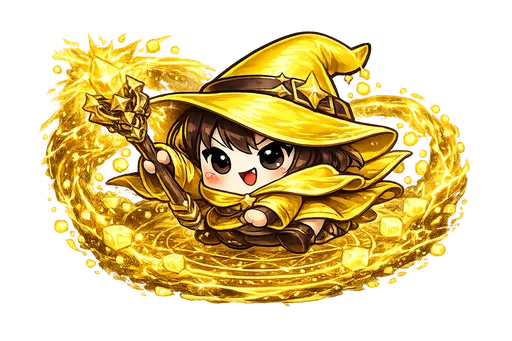
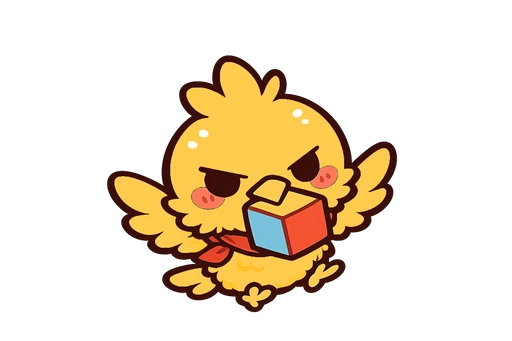
game: 賊鴨系(原魔女)+風城入門/初級/中級、火城中級畜力調整、排行榜/各城副標
- 魔女→賊鴨:c51-c55 改名+3星進化線(◯賊鴨/大賊鴨/盜賊鴨)+全套貼圖(1-4星)+主動技群鴨亂啄
- 賊鴨破壞技 _peckAct:偷盤面格(非魔王);魔王偷盤面+拖盤3格;中級4星魔王加透明塊詠唱整消
- 風城入門/初級/中級關卡(賊鴨),入門教學魔王
- 火城中級雜兵+魔王畜力改 CD4式、入門教學魔王、S3三星魔王
- 排行榜展開成各城×難度可捲動、各城難度選擇畫面主題副標

diff --git a/public/play/index.html b/public/play/index.html
@@ -112,7 +112,7 @@
       { emoji: '🕷', name: '妖·蜘蛛', color: '#b79bff', cards: { fire: 'c36', water: 'c37', thunder: 'c38', earth: 'c39', wind: 'c40' } },   // 雜牌卡(未標家族,保留 genin 1星,進化2星換岩甲圖)
       { emoji: '👺', name: '哥布林', color: '#ff6a4a', cards: { fire: 'c41', water: 'c42', thunder: 'c43', earth: 'c44', wind: 'c45' } },   // 雜牌卡(未標家族,保留 genin 1星;1→2星換青年哥布林圖,2→3星換戰士哥布林圖,見 GHOST_EVO/GHOST_EVO2)
       { emoji: '🧱', name: '妖·牆', color: '#c9a86a', cards: { fire: 'c46', water: 'c47', thunder: 'c48', earth: 'c49', wind: 'c50' } },   // 雜牌卡(未標家族,保留 genin 1星,進化2星換城牆怪圖);土城盾兵/盾王借此圖
-      { emoji: '🔮', name: '妖·魔女', color: '#b06ad0', cards: { fire: 'c51', water: 'c52', thunder: 'c53', earth: 'c54', wind: 'c55' } },   // 雜牌卡(未標家族,保留 genin 1星,進化2星換大魔女圖);風城消卡片塊敵人/魔王借此圖
+      { emoji: '🦆', name: '賊鴨', color: '#b06ad0', cards: { fire: 'c51', water: 'c52', thunder: 'c53', earth: 'c54', wind: 'c55' } },   // 雜牌卡(未標家族,保留 genin 1星;1→2星換大賊鴨圖,2→3星換盜賊鴨圖,見 WITCH_EVO/WITCH_EVO2,原名魔女);風城消卡片塊敵人/魔王借此圖(魔王另借 king_full)
       { emoji: '💊', name: '妖·藥師', color: '#4fbf8f', cards: { fire: 'c56', water: 'c57', thunder: 'c58', earth: 'c59', wind: 'c60' } },   // 雜牌卡(未標家族,保留 genin 1星,進化2星換大藥師圖,完全鏡射魔女);補血系高rcv中攻;水城補師怪/魔王借此圖
       { emoji: '💎', name: '寶玉', color: '#8fd0e0', cards: { fire: 'c61', water: 'c62', thunder: 'c63', earth: 'c64', wind: 'c65' } },   // 進化素材(chunin 2★晶精);屬性城掉落、進化消耗;不進 EVO_CARDS
     ];
@@ -130,7 +130,7 @@
     ['🕷', '妖', '#b79bff', 0x241a2e, ['c36', 'c37', 'c38', 'c39', 'c40']],
     ['👺', '妖', '#ff6a4a', 0x2e1a1a, ['c41', 'c42', 'c43', 'c44', 'c45']],
     ['🧱', '妖', '#c9a86a', 0x2a2418, ['c46', 'c47', 'c48', 'c49', 'c50']],
-    ['🔮', '妖', '#b06ad0', 0x241a2e, ['c51', 'c52', 'c53', 'c54', 'c55']],
+    ['🦆', '妖', '#b06ad0', 0x241a2e, ['c51', 'c52', 'c53', 'c54', 'c55']],
     ['💊', '妖', '#4fbf8f', 0x18332a, ['c56', 'c57', 'c58', 'c59', 'c60']],
     ['💎', '寶玉', '#8fd0e0', 0x16313a, ['c61', 'c62', 'c63', 'c64', 'c65']]
     ].forEach(([e, n, c, bg, ids]) => ids.forEach(id => CARD_SPECIES[id] = { e, n, c, bg }));
@@ -370,6 +370,14 @@
       earth: { name: '土之遺跡', icon: '🛡', skill: '護盾', art: 'shield_earth', threat: '敵人帶「護盾」,普通攻擊打不動牠!', counter: '一手清夠多格(HIT)或連夠多段(COMBO)→ 打破護盾' },
       wind: { name: '風之峽谷', icon: '💨', skill: '消屬塊', art: 'caster_wind', threat: '術士會消掉你卡上存的屬塊;魔王還用「黑洞」把整塊吸走!', counter: '屬塊別囤著、趕快用掉;魔王預告時用「火」(剋風)清宮打斷' },
     };
+    // 難度選擇畫面的各城主題提示(一句話點出該城機制;序章/塔無→用通用字)
+    const DUNGEON_TIP = {
+      fire: '火山裡充滿強力攻擊的怪，別忘了注意自己的血量',
+      water: '會補技、復活的怪都在這，小心變成持久戰',
+      thunder: '充滿影響盤面的技能怪，要用高技巧排盤面',
+      earth: '各種防禦怪，用高 COMBO 和高 HIT 打倒牠',
+      wind: '各種盜賊聚集的峽谷，小心別被偷',
+    };
     // 🗺 大廳世界地圖排版(以 map_demo 為範本;座標=原圖 1080×1920 空間;渲染時乘自適應 S → 換手機高度不跑位)
     const MAP_ISLES = [   // id=進入的城;ax/ay=原圖中心;w/h=原圖尺寸
       { key: 'island_wind', id: 'wind', ax: 234, ay: 484, w: 464, h: 485 },
@@ -480,12 +488,12 @@
       { id: 'c48', name: '雷牆怪', el: 'thunder', race: 'yokai', rank: 'genin', atk: 95, hp: 140, rcv: 12, attrs: ['thunder'] },
       { id: 'c49', name: '土牆怪', el: 'earth', race: 'yokai', rank: 'genin', atk: 70, hp: 185, rcv: 12, attrs: ['earth'] },
       { id: 'c50', name: '風牆怪', el: 'wind', race: 'yokai', rank: 'genin', atk: 85, hp: 150, rcv: 14, attrs: ['wind'] },
-      /* ── 🔮 魔女系(雜牌卡,鏡像蜘蛛/鬼/牆系:不進 CARD_FAMILY/TW_IDS→保留 genin ★1;魔法攻擊系高攻中血;1★→2★進化換名換圖「大◯魔女」,見 WITCH_EVO;風城消卡片塊敵人/魔王借圖)── */
-      { id: 'c51', name: '火魔女', el: 'fire', race: 'yokai', rank: 'genin', atk: 135, hp: 85, rcv: 10, attrs: ['fire'] },
-      { id: 'c52', name: '水魔女', el: 'water', race: 'yokai', rank: 'genin', atk: 90, hp: 130, rcv: 22, attrs: ['water'] },
-      { id: 'c53', name: '雷魔女', el: 'thunder', race: 'yokai', rank: 'genin', atk: 125, hp: 95, rcv: 14, attrs: ['thunder'] },
-      { id: 'c54', name: '土魔女', el: 'earth', race: 'yokai', rank: 'genin', atk: 95, hp: 145, rcv: 14, attrs: ['earth'] },
-      { id: 'c55', name: '風魔女', el: 'wind', race: 'yokai', rank: 'genin', atk: 115, hp: 105, rcv: 16, attrs: ['wind'] },
+      /* ── 🦆 賊鴨系(雜牌卡,鏡像蜘蛛/鬼/牆系:不進 CARD_FAMILY/TW_IDS→保留 genin ★1;魔法攻擊系高攻中血;1★→2★→3★三階進化,見 WITCH_EVO/WITCH_EVO2;風城消卡片塊敵人/魔王借圖;內部 id/物種 key 沿用魔女時期,原名"魔女",2026-07-30 改名賊鴨)── */
+      { id: 'c51', name: '火賊鴨', el: 'fire', race: 'yokai', rank: 'genin', atk: 135, hp: 85, rcv: 10, attrs: ['fire'] },
+      { id: 'c52', name: '水賊鴨', el: 'water', race: 'yokai', rank: 'genin', atk: 90, hp: 130, rcv: 22, attrs: ['water'] },
+      { id: 'c53', name: '雷賊鴨', el: 'thunder', race: 'yokai', rank: 'genin', atk: 125, hp: 95, rcv: 14, attrs: ['thunder'] },
+      { id: 'c54', name: '土賊鴨', el: 'earth', race: 'yokai', rank: 'genin', atk: 95, hp: 145, rcv: 14, attrs: ['earth'] },
+      { id: 'c55', name: '風賊鴨', el: 'wind', race: 'yokai', rank: 'genin', atk: 115, hp: 105, rcv: 16, attrs: ['wind'] },
       /* ── 💊 藥師系(雜牌卡,完全鏡射魔女系:不進 CARD_FAMILY/TW_IDS→保留 genin ★1;補血系高rcv,atk比魔女略降,水/土屬更肉更高rcv;1★→2★進化換名換圖「大◯藥師」,見 YAKUSHI_EVO;水城補師怪/魔王借圖)── */
       { id: 'c56', name: '火藥師', el: 'fire', race: 'yokai', rank: 'genin', atk: 110, hp: 90, rcv: 20, attrs: ['fire'] },
       { id: 'c57', name: '水藥師', el: 'water', race: 'yokai', rank: 'genin', atk: 65, hp: 150, rcv: 34, attrs: ['water'] },
@@ -507,13 +515,14 @@
     // 鬼系(現已改名哥布林系)1★→2★進化換名換圖表:進化階(getCardEvo)≥1 → 顯示「◯青年哥布林」+ <id>_e_ 圖
     const GHOST_EVO = { c41: '火青年哥布林', c42: '水青年哥布林', c43: '雷青年哥布林', c44: '土青年哥布林', c45: '風青年哥布林' };
     const WALL_EVO = { c46: '火城牆怪', c47: '水城牆怪', c48: '雷城牆怪', c49: '土城牆怪', c50: '風城牆怪' };   // 牆怪 1★→2★進化換名換圖(鏡像蜘蛛/鬼系):進化階≥1 → 顯示「◯城牆怪」+ <id>_e_ 圖;土城盾王借城牆怪 e_full
-    const WITCH_EVO = { c51: '大火魔女', c52: '大水魔女', c53: '大雷魔女', c54: '大土魔女', c55: '大風魔女' };   // 魔女 1★→2★進化換名換圖(鏡像牆怪):進化階≥1 → 顯示「大◯魔女」+ <id>_e_ 圖;風城魔王借大魔女 e_full
+    const WITCH_EVO = { c51: '火大賊鴨', c52: '水大賊鴨', c53: '雷大賊鴨', c54: '土大賊鴨', c55: '風大賊鴨' };   // 賊鴨(原魔女)1★→2★進化換名換圖:進化階≥1 → 顯示「◯大賊鴨」+ <id>_e_ 圖;風城魔王借圖見 WITCH_EVO2/king_full
     const YAKUSHI_EVO = { c56: '大火藥師', c57: '大水藥師', c58: '大雷藥師', c59: '大土藥師', c60: '大風藥師' };   // 藥師 1★→2★進化換名換圖(鏡射魔女):進化階≥1 → 顯示「大◯藥師」+ <id>_e_ 圖;水城魔王借大水藥師 e_full
     const EVO_CARDS = Object.assign({}, SPIDER_EVO, GHOST_EVO, WALL_EVO, WITCH_EVO, YAKUSHI_EVO);   // 合併進化雜牌卡名表:凡是「進化換名換圖」共用邏輯(cardArtKey/_loadCardArt/_loadCardThumbs/_ensureFullArt/canEvolve/GACHA_ROSTER/cardName/進化預覽)一律讀這裡,不分蜘蛛/鬼/牆/魔女/藥師
     // 哥布林系(原鬼系)2★→3★再進化名表:進化階(getCardEvo)≥2 → 顯示「◯戰士哥布林」+ <id>_e2_ 圖(3星,2026-07-29 加)。
-    // 目前只有哥布林系支援 evo2;其他雜牌系(蜘蛛/牆/魔女/藥師)仍維持 1★→2★ 兩形上限。別系要開 evo2 就往 EVO2_CARDS 加。
+    // 目前哥布林系、賊鴨系(原魔女 c51~c55)支援 evo2;其他雜牌系(蜘蛛/牆/藥師)仍維持 1★→2★ 兩形上限。別系要開 evo2 就往 EVO2_CARDS 加。
     const GHOST_EVO2 = { c41: '火戰士哥布林', c42: '水戰士哥布林', c43: '雷戰士哥布林', c44: '土戰士哥布林', c45: '風戰士哥布林' };
-    const EVO2_CARDS = Object.assign({}, GHOST_EVO2);   // 合併「可進到 evo2(3星)」名表:目前只有哥布林系,別的系要開 evo2 往這加
+    const WITCH_EVO2 = { c51: '火盜賊鴨', c52: '水盜賊鴨', c53: '雷盜賊鴨', c54: '土盜賊鴨', c55: '風盜賊鴨' };   // 賊鴨(原魔女)2★→3★再進化名表:進化階≥2 → 顯示「◯盜賊鴨」+ <id>_e2_ 圖(3星,2026-07-30 加);魔王另借 king_full(4星「◯盜賊鴨王」非卡片)
+    const EVO2_CARDS = Object.assign({}, GHOST_EVO2, WITCH_EVO2);   // 合併「可進到 evo2(3星)」名表:目前哥布林系、賊鴨系支援,別的系要開 evo2 往這加
     function cardName(id) { const c = ROSTER.find(x => x.id === id) || {}; const t = getCardEvo(id); if (t >= 2 && EVO2_CARDS[id]) return EVO2_CARDS[id]; return (EVO_CARDS[id] && t >= 1) ? EVO_CARDS[id] : c.name; }   // 卡片顯示名字統一入口(evo2 名表優先於 evo1 名表,再 fallback ROSTER.name)
     // CONFIG → battle-core.js
     const KATA = ['一之型', '二之型', '三之型', '四之型', '五之型', '禁術', '奧義'];   // LV1~7(簡單數字,日文漢字通用)
@@ -785,7 +794,7 @@
     const SPIDER_ACTIVE = { name: '蛛絲纏縛', cd: 4, icon: '🕸', desc: '鎖定 1 敵,其出手倒數 +1 手' };   // 🕷蜘蛛系(c36~c40)共用同一份主動技物件
     const GHOST_ACTIVE = { name: '怨擊', cd: 5, icon: '👊', desc: '對指定 1 敵造成 攻擊力×2 傷害(吃相剋)' };
     const WALL_ACTIVE = { name: '築牆阻擋', cd: 6, icon: '🧱', desc: '全體敵人出手倒數 +1 手' };   // 👹鬼系(c41~c45)共用同一份主動技物件
-    const WITCH_ACTIVE = { name: '魔女術式', cd: 6, icon: '🔮', desc: '對全體敵人造成 攻擊力×1.6 傷害(吃相剋)' };   // 🔮魔女系(c51~c55):全體魔法傷害(區隔🐶群擊×2、👹怨擊單體×2)
+    const WITCH_ACTIVE = { name: '群鴨亂啄', cd: 6, icon: '🦆', desc: '對全體敵人造成 攻擊力×1.6 傷害(吃相剋)' };   // 🦆賊鴨系(c51~c55,原魔女):全體傷害(區隔🐶群擊×2、👹怨擊單體×2)
     const YAKUSHI_ACTIVE = { name: '靈藥術式', cd: 6, icon: '💊', desc: '回復全隊 HP 35%' };   // 💊藥師系(c56~c60,鏡射魔女術式但改補血):CD6 比照水屬預設「回春之泉」CD4回30%,CD拉高故回復率略增
     const CARD_ACTIVE = {
       c15: { name: '裂空撲殺', cd: 3, icon: '🐆', desc: '總傷≈攻×2:敵單隻→集中、多隻→均分全體,各吃相剋' },
@@ -2225,7 +2234,7 @@
         if (this.dungeonId === 'thunder') _loadCardArt(this, ['c38']);   // 🕷 雷之高原借蜘蛛透明大圖當敵圖:載 c38雷蜘蛛(法師)+岩甲雷蜘蛛(魔王,_e)完整大圖
         if (this.dungeonId === 'fire') { _loadCardArt(this, ['c41']); if (!this.textures.exists('card_c41_king_full')) this.load.image('card_c41_king_full', 'art/cards/c41_king_full.webp'); }   // 👺 火之火山借哥布林卡透明大圖當敵圖:載 c41哥布林(雜兵)完整大圖;魔王另載專屬 4星哥布林酋長大圖(非玩家卡,只在此當魔王)
         if (this.dungeonId === 'earth') _loadCardArt(this, ['c49']);   // 🧱 土之山岳借牆怪透明大圖當盾兵/盾王圖:載 c49土牆怪(盾兵)+土城牆怪(盾王,_e)完整大圖(比照 fire 分支)
-        if (this.dungeonId === 'wind') _loadCardArt(this, ['c55']);   // 🔮 風之峽谷借魔女透明大圖當消卡片塊敵/魔王圖:載 c55風魔女(小兵)+大風魔女(魔王,_e)完整大圖
+        if (this.dungeonId === 'wind') { _loadCardArt(this, ['c55']); if (!this.textures.exists('card_c55_king_full')) this.load.image('card_c55_king_full', 'art/cards/c55_king_full.webp'); }   // 🦆 風之峽谷借賊鴨(原魔女)透明大圖當消卡片塊敵/魔王圖:載 c55風賊鴨(小兵)完整大圖;魔王另載專屬 4星風賊鴨王大圖(非玩家卡,只在此當魔王,比照 fire 分支)
         if (this.dungeonId === 'water') _loadCardArt(this, ['c57']);   // 💊 水之深淵借藥師透明大圖當補血怪/魔王圖:載 c57水藥師(補師)+大水藥師(魔王,_e)完整大圖(比照 wind 分支)
         ['fire', 'water', 'thunder', 'earth', 'wind'].forEach(el => { if (!this.textures.exists('el_' + el)) this.load.svg('el_' + el, 'art/elements/element_' + el + '.svg', { width: 96, height: 96 }); });   // 元素符號:實心剪影 SVG,疊在盤面方塊正中央(setTintFill 上白),96px 光柵→顯示縮到 ~23px 保脆
         showLoadBar(this);
@@ -2263,7 +2272,10 @@
           if (e.boss && this.textures.exists('card_c49_e_full')) return 'card_c49_e_full';
           if (e.shield && this.textures.exists('card_c49_full')) return 'card_c49_full';
         }
-        if (this.dungeonId === 'wind') {   // 🔮 風之峽谷=魔女:魔王→大風魔女(e_full)、消卡片塊敵→風魔女(借 c55);只換 eatStored 敵人,其餘維持 grunt
+        if (this.dungeonId === 'wind') {   // 🦆 風之峽谷=賊鴨窟(原魔女):tier 星級圖優先(1星→c55、2星→_e、3星→_e2);無 tier 的魔王才用 4星賊鴨王
+          const gk = e.tier === 3 ? 'card_c55_e2_full' : e.tier === 2 ? 'card_c55_e_full' : e.tier === 1 ? 'card_c55_full' : null;
+          if (gk && this.textures.exists(gk)) return gk;
+          if (e.boss && this.textures.exists('card_c55_king_full')) return 'card_c55_king_full';
           if (e.boss && this.textures.exists('card_c55_e_full')) return 'card_c55_e_full';
           if (e.eatStored > 0 && this.textures.exists('card_c55_full')) return 'card_c55_full';
         }
@@ -4643,6 +4655,59 @@
           if (bi >= 0) { this._eatBlockGrunt(e, bi); } else { this.enemyAttack(e); } e.timer = e.interval;   // 術士雜兵:有塊→啃1LV、沒塊→攻擊
         }
       }
+      _peckAct(e) {   // 🦆賊鴨出手(擴充):偷盤面格(+e.peckTray→連拖盤拼圖格也偷)+e.stealStored(中級4星魔王)→輪流推進魔女魔王消屬塊詠唱(_buildEatCast/_fireEatBlock);都偷不到才攻擊翻倍
+        const pool = [];   // 破壞池:{t:'b',r,c}=盤面格 / {t:'y',pi,rc}=拖盤第pi塊的格(rc=該塊內偏移)
+        for (let r = 0; r < N; r++) for (let c = 0; c < N; c++) if (this.board[r][c]) pool.push({ t: 'b', r, c });
+        if (e.peckTray) (this.tray || []).forEach((p, pi) => { if (p.used || !p.c || !p.c.length) return; p.c.forEach(rc => pool.push({ t: 'y', pi, rc })); });   // 非 peckTray 的賊鴨只偷盤面格,維持原行為
+        const ex = e.sprite ? e.sprite.x : CX, ey = (e.sprite ? e.sprite.y : 60), wcol = EL.wind.color, doStored = !!e.stealStored;
+        const hasTarget = pool.length > 0 || (doStored && ((this._eatCast && this._eatCast.boss === e) || this._topStoredIdx() >= 0));
+        if (!hasTarget) { this.floatText(ex, ey - 34, '🦆 沒東西可偷·攻擊翻倍!', '#ffd24a'); this.enemyAttack(e, { dmg: e.atk * 2, big: true }); e.timer = e.interval; return; }
+        const n = Math.min(e.peck || 1, pool.length);
+        if (n > 0) {
+          this._eneCast && this._eneCast(e); this.chargeAt(ex, ey, wcol, 340); this.labSnd && this.labSnd('s_clear15', 0.5);
+          this.floatText(ex, ey - 34, '🦆 偷走 ' + n + ' 塊', '#c9a0ff');
+          const targets = [];
+          for (let i = 0; i < n; i++) { const idx = Math.floor(Math.random() * pool.length); targets.push(pool.splice(idx, 1)[0]); }
+          let boardN = 0, trayTouched = false;
+          targets.forEach((tg, i) => {
+            if (tg.t === 'b') {
+              boardN++;
+              const r = tg.r, c = tg.c, cen = this.cellCenter(r, c), cel = this.board[r][c], ccol = (cel && EL[cel.el]) ? EL[cel.el].color : wcol;
+              this.board[r][c] = null;   // 模型先移除;舊 sprite 留著給投射物打碎,命中才淡出,最後 refreshBoard 收尾
+              const sp = this.blockSprites && this.blockSprites[r * N + c];
+              this.time.delayedCall(360 + i * 130, () => {
+                const ctrl = { x: (ex + cen.x) / 2, y: Math.min(ey, cen.y) - 70 };
+                this.flyBall(ex, ey, cen.x, cen.y, wcol, ctrl, 380, () => {   // 賊鴨→該格射一發(風色)
+                  this._shatterBurst(cen.x, cen.y, ccol, true); this.labSnd && this.labSnd('s_boom', 0.5); this.labSnd && this.labSnd('s_block', 0.45);   // 命中→碎裂(同偷屬塊)
+                  if (sp && sp.active) this.tweens.add({ targets: sp, alpha: 0, scaleX: sp.scaleX * 0.4, scaleY: sp.scaleY * 0.4, duration: 220, ease: 'Back.in' });
+                  this.floatText(cen.x, cen.y - 4, '🪶', '#ffffff');
+                });
+              });
+            } else {   // 拖盤格:從拼圖裡挖掉那一格(值比對 filter,避免同塊多格用 splice 位移出錯)
+              trayTouched = true;
+              const pi = tg.pi, rc = tg.rc, trayP = this.tray[pi], tx = (this.traySlots && this.traySlots[pi] != null) ? this.traySlots[pi] : ex, ty = TRAY_Y;
+              if (trayP) { trayP.c = trayP.c.filter(x => !(x[0] === rc[0] && x[1] === rc[1])); if (trayP.c.length === 0) trayP.used = true; }
+              this.time.delayedCall(360 + i * 130, () => {
+                const ctrl = { x: (ex + tx) / 2, y: Math.min(ey, ty) - 70 };
+                this.flyBall(ex, ey, tx, ty, wcol, ctrl, 380, () => {   // 賊鴨→拖盤那塊射一發(風色),命中處炸開一團風色 puff(拼圖看得出缺一角,靠隨後 renderTray 收尾)
+                  const ADD = Phaser.BlendModes.ADD, puff = this.add.circle(tx, ty, 20, wcol, 0.7).setBlendMode(ADD).setDepth(DEPTH.fx);
+                  this.tweens.add({ targets: puff, scale: 2.2, alpha: 0, duration: 300, onComplete: () => puff.destroy() });
+                  this.labSnd && this.labSnd('s_boom', 0.5); this.labSnd && this.labSnd('s_block', 0.45);
+                  this.floatText(tx, ty - 24, '🪶', '#ffffff');
+                });
+              });
+            }
+          });
+          const doneDelay = 360 + (n - 1) * 130 + 380 + 280;
+          if (boardN > 0) this.time.delayedCall(doneDelay, () => { if (!this.resultOpen) this.refreshBoard(); });   // 全部命中後收尾重繪(清掉被偷的盤面格)
+          if (trayTouched) this.time.delayedCall(doneDelay, () => { if (!this.resultOpen) this.renderTray(); });   // 收尾重畫拖盤(缺角拼圖生效)
+        }
+        if (doStored) {   // 🌀中級4星魔王:輪流推進魔女魔王消屬塊狀態機(這手若已有本魔王的預告→結算整消;否則→這手預告鎖定一塊)
+          if (this._eatCast && this._eatCast.boss === e) { this._fireEatBlock(); }
+          else if (this._topStoredIdx() >= 0) { this._buildEatCast(e); }
+        }
+        this.enemyAttack(e); e.timer = e.interval;
+      }
       _eatBlockGrunt(e, bi) {   // 術士雜兵:身前開消屬黑洞(慢)→從黑洞射一發到卡上那塊→卡上碎裂(久一點)→該塊 −1 LV(LV1→整塊消)
         const s = this.stored[bi]; if (!s) { this.enemyAttack(e); return; } const el = s.el, col = EL[el].color, ADD = Phaser.BlendModes.ADD, ex = e.sprite ? e.sprite.x : CX, ey = (e.sprite ? e.sprite.y : 60) + (e.cardH || 70) * 0.04, so = this.teamCards[bi] && this.teamCards[bi].storeObj, tx = so ? so.x : CX, ty = so ? so.y : CARDS_Y;
         this._eneCast(e); this.labSnd && this.labSnd('s_clear15', 0.4);
@@ -4953,7 +5018,7 @@
           if (this.resultOpen) { this.locked = false; return; }   // 期間已開結算/勝敗畫面→不再推進
           try {
             this._shieldHandActive = false; this._shieldBreakShown = false; this._lockedStore = {}; this._clearAllLockBadges();   // 🐻本手護盾旗標重置(首擋→轉true→全手擋);🌀封卡旗標每敵回合開始清+清殘留🔒徽章(魔王設→套用到玩家下一手)
-            this.enemies.forEach(e => { if (e.dead || e.hp <= 0) return; if ((e.sealed || 0) > 0) { e.sealed--; return; } if (e._finInterrupted) { e._finInterrupted = false; return; } if (e.finCD > 0) { e.timer--; const FS = e.finStages || 2; if (e.timer <= 0) { e._charging = false; this._launchFinisher(e); } else if (e.timer <= FS) { e._charging = true; this._showEnemyOrb(e, e.timer === 1 ? 3 : 2); } else { e._charging = false; } this.animTurnGlass(e); return; } if (e._charging) { this.enemyFinisher(e); this.animTurnGlass(e); return; } e.timer--; if (e.timer <= 0) { if (e.finisher > 0) this.enemyFinisher(e); else if (e.healAlly > 0) { this._medicAct(e); } else if (e.eatStored > 0) { this._eatAct(e); } else if (e.shield) { this._shieldAct(e); } else if (e.paralyze > 0) { this._paralyzeAct(e); } else { this.enemyAttack(e); e.timer = e.interval; } } this.animTurnGlass(e); });   // ⚡麻痺:e.timer 歸0→_paralyzeAct(頭上CD與發動一致);魔王有鎖改攻擊   // 敵出手;補師=雙模式/魔王補師=攻擊+補+復活(_medicAct);★被打斷終結技的敵→跳過;蓄力中每手推進一階;封印=凍結
+            this.enemies.forEach(e => { if (e.dead || e.hp <= 0) return; if ((e.sealed || 0) > 0) { e.sealed--; return; } if (e._finInterrupted) { e._finInterrupted = false; return; } if (e.finCD > 0) { e.timer--; const FS = e.finStages || 2; if (e.timer <= 0) { e._charging = false; this._launchFinisher(e); } else if (e.timer <= FS) { e._charging = true; this._showEnemyOrb(e, e.timer === 1 ? 3 : Math.min(2, FS - e.timer + 1)); } else { e._charging = false; } this.animTurnGlass(e); return; } if (e._charging) { this.enemyFinisher(e); this.animTurnGlass(e); return; } e.timer--; if (e.timer <= 0) { if (e.finisher > 0) this.enemyFinisher(e); else if (e.healAlly > 0) { this._medicAct(e); } else if (e.eatStored > 0) { this._eatAct(e); } else if (e.shield) { this._shieldAct(e); } else if (e.paralyze > 0) { this._paralyzeAct(e); } else if (e.peck > 0) { this._peckAct(e); } else { this.enemyAttack(e); e.timer = e.interval; } } this.animTurnGlass(e); });   // ⚡麻痺:e.timer 歸0→_paralyzeAct(頭上CD與發動一致);魔王有鎖改攻擊   // 敵出手;補師=雙模式/魔王補師=攻擊+補+復活(_medicAct);★被打斷終結技的敵→跳過;蓄力中每手推進一階;封印=凍結
             const dotRate = Math.max(0, ...this.enemies.filter(e => !e.dead && e.hp > 0 && !(e.sealed > 0)).map(e => e.dot || 0));   // 🔥火關灼燒光環:有灼燒敵活著→每手扣玩家血(取最大率、不疊加);★封印中不灼燒
             if (dotRate > 0) { const dd = Math.max(1, Math.round(this.maxHP * dotRate)); this.playerHP = Math.max(0, this.playerHP - dd); this.floatText(CX, PHP_Y - 16, '🔥灼燒 -' + dd, '#ff7a4a'); this.animPlayerHP(false); if (this.playerHP <= 0) this.gameOver('灼燒焚身'); }
             this.enemies.forEach(e => { if (!e.dead && e.hp > 0 && !(e.sealed > 0) && e.regen > 0) { const hh = Math.max(1, Math.round(e.max * e.regen)); e.hp = Math.min(e.max, e.hp + hh); if (e.sprite) this.floatText(e.sprite.x, e.sprite.y - 24, '💚+' + hh, '#74e09a'); } });   // 💚水關自我回血:每隻回血敵每手回自身血(致死 hp≤0 不回→不會復活);★封印中不自療
@@ -5576,9 +5641,9 @@
         const ADD = Phaser.BlendModes.ADD, base = (e.cardW || 60) * (e.boss ? 0.32 : 0.2);   // 雜兵較小
         const conf = stage >= 3 ? { r: base * 1.5, col: 0xff2a1a, glow: 0xff2a1a, pulse: 210 }
           : stage === 2 ? { r: base * 1.15, col: 0xffb24a, glow: 0xff8a2a, pulse: 360 }
-            : { r: base * 0.85, col: 0xbfe0ff, glow: 0x5aa0ff, pulse: 520 };
+            : { r: base * 0.8, col: 0xffffff, glow: 0xd6e8ff, pulse: 520 };   // 第一階=小白球
         const oyOff = (e.cardH || 70) * 0.2, ox = e.sprite.x, oy = e.sprite.y + oyOff;   // 在怪「身前偏下」(雙手前),不擋臉
-        const coreCol = stage >= 3 ? 0xffe6cf : (stage === 1 ? conf.glow : conf.col);   // 第一階用深藍(不白、不糊成一團)
+        const coreCol = stage >= 3 ? 0xffe6cf : (stage === 1 ? 0xffffff : conf.col);   // 第一階=白核小白球(倒數第一段的小小白光)
         const solid = stage >= 3, cont = this.add.container(ox, oy, []).setDepth(DEPTH.fx), glow = this.add.circle(0, 0, conf.r * 1.6, conf.glow, solid ? 0.34 : 0.24).setBlendMode(ADD), core = this.add.circle(0, 0, conf.r, coreCol, solid ? 0.92 : 0.6).setBlendMode(ADD);   // 第3階=實心白熱(脈動/抖動才看得出),1/2階半透明露臉
         cont.add([glow, core]); e._finOrb = cont; e._finCol = conf.col; e._finR = conf.r; e._finPos = { x: ox, y: oy }; e._finOY = oyOff;
         cont.setScale(0.4); this.tweens.add({ targets: cont, scaleX: 1, scaleY: 1, duration: 220, ease: 'Back.out' });
@@ -6683,7 +6748,7 @@
         this.input.on('pointerup', () => { this._oDragFrom = null; this._noScroll = false; });
         this.input.on('wheel', (p, go, dx, dy) => { if (this.tab !== 'other' || !this._otherScroll) return; const viewH = (H - 60) - 84, minY = Math.min(0, viewH - (this._otherContentH || 0)); this._otherScrollY = Phaser.Math.Clamp(this._otherScrollY - dy * 0.5, minY, 0); this._otherScroll.y = this._otherScrollY; });   // 🖱 桌面滾輪支援(手機用拖曳);同 create() 只加一次,不在 rebuild 疊
         // 🏅 成就頁捲動(村落→成就分頁);與 'other' 同套邏輯,獨立狀態 _achScroll/_achScrollY/_achContentH;只註冊一次
-        const _isAch = () => this.tab === 'friend' && this.rankTab === 'ach' && this._achScroll;   // 排行/紀錄/成就頁=friend(殿堂)tab
+        const _isAch = () => this.tab === 'friend' && ((this.rankTab || 'board') === 'board' || this.rankTab === 'ach') && this._achScroll;   // 排行/成就頁共用這套捲動;⚠排行是預設分頁→rankTab 常為 undefined,要用 (rankTab||'board') 判,否則排行拖不動
         const _achView = () => (H - 60) - (84 + 60);
         this.input.on('pointerdown', p => { if (!_isAch()) return; this._aDragFrom = p.y; });
         this.input.on('pointermove', p => { if (!_isAch() || this._aDragFrom == null || !p.isDown) return; const dy = p.y - this._aDragFrom; this._aDragFrom = p.y; const minY = Math.min(0, _achView() - (this._achContentH || 0)); this._achScrollY = Phaser.Math.Clamp((this._achScrollY || 0) + dy, minY, 0); this._achScroll.y = this._achScrollY; });
@@ -6880,30 +6945,47 @@
         });
         if (tab === 'rec') this.bRankRecords(); else if (tab === 'ach') this.bRankAch(); else this.bRankBoard();
       }
-      bRankBoard() {   // 排行=各關「全服最速通關記錄」+ 記錄保持者名字(伺服器 dungeon_best_clears);首次進入非同步抓一次快取
+      bRankBoard() {   // 排行=各城「每個難度」全服最速通關 + 記錄保持者(伺服器 dungeon_best_clears);城標頭下列出各難度;放進可捲動容器(城×難度列數多)
         const T = UI(), cTop = 84;
         const fmt = (s) => { if (s == null) return '--:--'; const x = Math.max(0, Math.floor(s)); return String(Math.floor(x / 60)).padStart(2, '0') + ':' + String(x % 60).padStart(2, '0'); };
+        this._achScroll = null;   // 先清:載入中的 early-return 路徑不要讓捲動閘門誤抓到上一輪的殘留容器
         if (this._lbCache === undefined) {   // 尚未抓過→標記 pending、非同步抓,回來後 rebuild 重繪
           this._lbCache = null;
           leaderboardFetch().then(recs => { this._lbCache = recs || []; if (this.tab === 'friend' && (this.rankTab || 'board') === 'board' && this.scene.isActive()) this.rebuild(); });
         }
-        const PAD = 16, ROWH = 48, GAP = 10;
         if (this._lbCache === null) { this.txt(CX, cTop + 130, '載入全服榜…', FS.sub, T.ink3, 0.5); return; }   // 載入中
-        const best = {};   // dungeonId → 該城最速(跨難度取最快){sec,name,diff}
-        this._lbCache.forEach(r => { const c = best[r.dungeonId]; if (!c || r.clearSec < c.sec) best[r.dungeonId] = { sec: r.clearSec, name: r.holderName, diff: r.diff }; });
-        let y = cTop + 92;
-        RANK_DUNGEONS.forEach(id => {
+        // 依 城→難度 收整(同城同難度取最快;dungeon_best_clears 本就每城每難一列,取 min 保險)
+        const byDun = {};
+        this._lbCache.forEach(r => { (byDun[r.dungeonId] = byDun[r.dungeonId] || {}); const c = byDun[r.dungeonId][r.diff]; if (!c || r.clearSec < c.sec) byDun[r.dungeonId][r.diff] = { sec: r.clearSec, name: r.holderName }; });
+        const DIFF_ORDER = ['baby', 'beginner', 'normal', 'advanced', 'super', 'hell'];   // 入門→地獄
+        const viewTop = cTop + 60, viewBot = H - 60, PAD = 16, ROWH = 44, GAP = 10, HEADGAP = 26, GRP = 48;   // GRP=城與城間留白(要明顯>HEADGAP,標頭才貼近它下方的組、遠離上一組)
+        const sc = this._achScroll = this.add.container(0, this._achScrollY || 0); this.L(sc);
+        const mkT = (x, y, s, size, col, ox, bold) => { const t = this.add.text(x, y, s, { fontFamily: EMOJIFONT, fontSize: Math.max(15, parseInt(size || '16', 10) || 16) + 'px', color: col || T.ink, fontStyle: bold ? 'bold' : 'normal' }).setOrigin(ox == null ? 0.5 : ox, 0.5); sc.add(t); return t; };
+        let y = viewTop + 26;   // 第一個城標頭
+        RANK_DUNGEONS.forEach((id, di) => {
           const dg = DUNGEONS[id]; if (!dg) return;
-          const b = best[id], has = !!b;
-          this.L(roundRectG(this, CX, y, W - PAD * 2, ROWH, 12, has ? T.surf : T.surf2, 1, has ? T.gold : T.divider, has ? 2 : 1.5));   // 有記錄=金框白卡,無=淡灰
-          this.txt(PAD + 12, y, dg.emoji + '  ' + dg.name, FS.body, has ? T.ink : T.ink3, 0, has);
-          if (has) {
-            const dq = DIFFS_BY[b.diff];
-            this.txt(W - PAD - 12, y - 9, '🏁 ' + fmt(b.sec) + (dq ? '  ' + dq.emoji : ''), FS.sub, T.goldTx, 1, true);   // 時間 + 難度圖示
-            this.txt(W - PAD - 12, y + 11, '👑 ' + (b.name || '無名英雄'), FS.micro, T.ink2, 1);   // 記錄保持者名字(null→fallback)
-          } else this.txt(W - PAD - 12, y, '尚無記錄', FS.sub, T.ink3, 1);
-          y += ROWH + GAP;
+          const recs = byDun[id] || {};
+          const diffs = DIFF_ORDER.filter(dk => recs[dk] && DIFFS_BY[dk]);
+          if (di > 0) y += GRP;   // 城與城之間留白(第一城不加)
+          mkT(PAD + 6, y, dg.emoji + '  ' + dg.name, FS.body, T.ink, 0, true);   // 城標頭
+          y += HEADGAP + ROWH / 2;   // 標頭下方留白 + 到第一列中心
+          if (diffs.length === 0) {   // 該城全難度都尚無記錄
+            sc.add(roundRectG(this, CX, y, W - PAD * 2, ROWH, 10, T.surf2, 1, T.divider, 1.5));
+            mkT(CX, y, '尚無記錄', FS.sub, T.ink3, 0.5);
+            y += ROWH / 2;
+          } else diffs.forEach((dk, ri) => {
+            const dq = DIFFS_BY[dk], b = recs[dk];
+            if (ri > 0) y += ROWH + GAP;   // 進到下一列中心
+            sc.add(roundRectG(this, CX, y, W - PAD * 2, ROWH, 10, T.surf, 1, T.gold, 1.5));
+            mkT(PAD + 16, y, (dq.emoji || '') + ' ' + dq.name, FS.sub, T.ink, 0, true);   // 難度圖示+名
+            mkT(W - PAD - 12, y - 8, '🏁 ' + fmt(b.sec), FS.sub, T.goldTx, 1, true);   // 最速時間
+            mkT(W - PAD - 12, y + 10, '👑 ' + (b.name || '無名英雄'), FS.micro, T.ink2, 1);   // 記錄保持者
+            if (ri === diffs.length - 1) y += ROWH / 2;   // 最後一列:補到列底
+          });
         });
+        this._achContentH = (y - viewTop) + 12;   // 內容總高(給捲動下限算)
+        const mask = this.make.graphics({ x: 0, y: 0, add: false }); mask.fillStyle(0xffffff).fillRect(0, viewTop, W, viewBot - viewTop);
+        sc.setMask(mask.createGeometryMask()); this._achMask = mask;
       }
       bRankRecords() {
         const T = UI(), cTop = 84;
@@ -7025,7 +7107,7 @@
         const bg = this.add.rectangle(CX, H / 2, W, H, 0x0e0a16, 0).setInteractive().on('pointerup', () => { if (ready) close(); });
         g.add(bg); this.tweens.add({ targets: bg, fillAlpha: { from: 0, to: 0.72 }, duration: 170 });   // 半暗底(亮色列在上更跳)
         const title = this.add.text(CX, H * 0.075, d.emoji + ' ' + d.name, { fontFamily: EMOJIFONT, fontSize: FS.title, color: '#ffffff', fontStyle: 'bold' }).setOrigin(0.5).setStroke('#000000', 4);
-        const sub = this.add.text(CX, H * 0.075 + 30, '選擇難度 — 體力越高、關數與獎勵越多', { fontFamily: EMOJIFONT, fontSize: FS.cap, color: '#e2ddd4' }).setOrigin(0.5).setStroke('#000000', 3);
+        const sub = this.add.text(CX, H * 0.075 + 30, DUNGEON_TIP[d.id] || '選擇難度 — 體力越高、關數與獎勵越多', { fontFamily: EMOJIFONT, fontSize: FS.cap, color: '#e2ddd4' }).setOrigin(0.5).setStroke('#000000', 3);
         g.add(title); g.add(sub);
         const backH = 50, backY = H - 38;
         const list = (id === 'tower') ? DIFFS.filter(df => df.key !== 'baby') : DIFFS;   // 塔=最終關,難度同五屬關但不開嬰兒級

diff --git a/public/play/data-stages.js b/public/play/data-stages.js
@@ -91,17 +91,55 @@ const OVERRIDES = {
     ] },
     ...DUNGEONS.tower.stages.slice(1),
   ],
-  // 火之火山·初級=哥布林畜力技教學關(把中級的「終結蓄力」機制下放到初級,讓玩家先學打斷)。tier=哥布林星級貼圖(1/2/3星),beh:'finisher'+finStages:2+finPct 直接指定(繞過初級 noSkill),finAnyHit:任何屬性打到牠都能中止(初級寬鬆)。四屬酋長只放火城,魔王(酋長)留給中級↑
+  // 火之火山·初級=哥布林畜力技教學關(把中級的「終結蓄力」機制下放到初級,讓玩家先學打斷)。tier=哥布林星級貼圖(1/2/3星),beh:'finisher'+finStages:3(CD4→倒數CD3/2/1顯示蓄力)+finPct 直接指定(繞過初級 noSkill),finAnyHit:任何屬性打到牠都能中止(初級寬鬆)。四屬酋長只放火城,魔王(酋長)留給中級↑
   'fire:beginner': [
     // S1:2星青年哥布林 ×1,CD式畜力(總CD4→倒數2顯示蓄力1階、1顯示2階、0放招)→教玩家「看CD倒數抓攻擊時機並打斷」
-    { es: [ { el: 'fire', hp: 560, atk: 90, turns: 2, tier: 2, beh: 'finisher', finCD: 4, finStages: 2, finPct: 0.15, finAnyHit: true } ] },
+    { es: [ { el: 'fire', hp: 560, atk: 90, turns: 2, tier: 2, beh: 'finisher', finCD: 4, finStages: 3, finPct: 0.15, finAnyHit: true } ] },
     // S2:2星青年哥布林 ×2,都會畜力→兩隻同時倒數,得選一隻先斷
-    { es: [ { el: 'fire', hp: 540, atk: 88, turns: 2, tier: 2, beh: 'finisher', finCD: 4, finStages: 2, finPct: 0.15, finAnyHit: true },
-            { el: 'fire', hp: 540, atk: 88, turns: 2, tier: 2, beh: 'finisher', finCD: 4, finStages: 2, finPct: 0.15, finAnyHit: true } ] },
+    { es: [ { el: 'fire', hp: 540, atk: 88, turns: 2, tier: 2, beh: 'finisher', finCD: 4, finStages: 3, finPct: 0.15, finAnyHit: true },
+            { el: 'fire', hp: 540, atk: 88, turns: 2, tier: 2, beh: 'finisher', finCD: 4, finStages: 3, finPct: 0.15, finAnyHit: true } ] },
     // S3:1星哥布林(護衛) + 3星戰士哥布林=魔王(畜力,傷害略高,boss→1.4×放大站後排) + 1星哥布林(護衛)→中間戰士是魔王主威脅
     { es: [ { el: 'fire', hp: 520, atk: 85, turns: 2, tier: 1 },
-            { el: 'fire', hp: 640, atk: 98, turns: 2, tier: 3, boss: true, beh: 'finisher', finCD: 4, finStages: 2, finPct: 0.18, finAnyHit: true },
+            { el: 'fire', hp: 640, atk: 98, turns: 2, tier: 3, boss: true, beh: 'finisher', finCD: 4, finStages: 3, finPct: 0.18, finAnyHit: true },
             { el: 'fire', hp: 520, atk: 85, turns: 2, tier: 1 } ] },
+  ],
+  // 🦆風城入門=賊鴨教學關:每次攻擊偷走盤面已放的格(peck),沒格可偷→攻擊翻倍。turns:1→baby(dt+2) interval=2(=技能CD2)。tier=賊鴨星級貼圖
+  'wind:baby': [
+    // S1:1星賊鴨 ×1(偷1格)→先認識「偷方塊」
+    { es: [ { el: 'wind', hp: 500, atk: 70, turns: 1, tier: 1, peck: 1 } ] },
+    // S2:1星賊鴨 ×2(各偷1格)
+    { es: [ { el: 'wind', hp: 480, atk: 68, turns: 1, tier: 1, peck: 1 },
+            { el: 'wind', hp: 480, atk: 68, turns: 1, tier: 1, peck: 1 } ] },
+    // S3:1星賊鴨 ×2(護衛,偷1) + 2星賊鴨=魔王(中間,偷2格,boss→吃其他城S3同款陣型:1.4×放大站後、兩側護衛在前)
+    { es: [ { el: 'wind', hp: 460, atk: 66, turns: 1, tier: 1, peck: 1 },
+            { el: 'wind', hp: 620, atk: 76, turns: 1, tier: 2, boss: true, peck: 2 },
+            { el: 'wind', hp: 460, atk: 66, turns: 1, tier: 1, peck: 1 } ] },
+  ],
+  // 🦆風城初級:賊鴨教學升級版——非魔王只偷盤面格,魔王加碼偷拖盤拼圖格(peckTray)。tier=星級貼圖(魔王S3=3星,吃king圖)。turns:2(→CD2)
+  'wind:beginner': [
+    // S1:2星賊鴨 ×1(偷盤面2格)
+    { es: [ { el:'wind', hp:560, atk:90, turns:2, tier:2, peck:2 } ] },
+    // S2:2星賊鴨 ×2
+    { es: [ { el:'wind', hp:540, atk:88, turns:2, tier:2, peck:2 },
+            { el:'wind', hp:540, atk:88, turns:2, tier:2, peck:2 } ] },
+    // S3:1星護衛 ×2 + 3星賊鴨=魔王(中,偷盤面+拖盤共3格)
+    { es: [ { el:'wind', hp:520, atk:85, turns:2, tier:1, peck:1 },
+            { el:'wind', hp:640, atk:98, turns:2, tier:3, boss:true, peck:3, peckTray:true },
+            { el:'wind', hp:520, atk:85, turns:2, tier:1, peck:1 } ] },
+  ],
+  // 🦆風城中級:賊鴨魔王再加碼——4星賊鴨王偷盤面+拖盤 + 額外輪流吃卡上屬塊(stealStored,重用魔女魔王消屬塊機制)。魔王不設tier→用king貼圖。turns:3(→CD2)
+  'wind:normal': [
+    // S1:2星賊鴨 ×2
+    { es: [ { el:'wind', hp:640, atk:100, turns:3, tier:2, peck:2 },
+            { el:'wind', hp:640, atk:100, turns:3, tier:2, peck:2 } ] },
+    // S2:1星 ×2 + 2星(中)
+    { es: [ { el:'wind', hp:600, atk:95, turns:3, tier:1, peck:1 },
+            { el:'wind', hp:660, atk:100, turns:3, tier:2, peck:2 },
+            { el:'wind', hp:600, atk:95, turns:3, tier:1, peck:1 } ] },
+    // S3:1星(左) + 4星賊鴨王=魔王(中,偷盤面+拖盤共3格 + 透明塊詠唱整消) + 補師(右)
+    { es: [ { el:'wind', hp:600, atk:95, turns:3, tier:1, peck:1 },
+            { el:'wind', hp:1900, atk:200, turns:3, boss:true, peck:3, peckTray:true, stealStored:true },
+            { el:'wind', hp:580, atk:90, turns:3, beh:'healAlly' } ] },
   ],
 };
 
@@ -136,7 +174,7 @@ function resolveStages(dungeon, diffKey){
     });
   }
   // 🔥火城魔王貼圖分級:入門(baby)=2星青年哥布林、初級=3星戰士(OVERRIDE 內設)、中級↑無 tier→4星酋長→難度越高魔王越大。tier 只影響貼圖,不改數值/sim
-  if(dungeon.id==='fire' && diffKey==='baby') stages.forEach(st=>st.es.forEach(e=>{ if(e.boss && !e.tier) e.tier=2; }));
+  if(dungeon.id==='fire' && diffKey==='baby') stages.forEach(st=>st.es.forEach(e=>{ if(e.boss){ if(!e.tier) e.tier=2; e.beh='finisher'; e.finCD=4; e.finStages=3; e.finPct=0.12; e.finAnyHit=true; } }));   // 入門魔王=畜力教學:同CD4、倒數CD3/2/1顯示蓄力、低傷、任何攻擊可打斷→讓新手提早習慣畜力技(beh 直接指定→繞過 baby noSkill)
   return stages;
 }
 
@@ -186,7 +224,7 @@ function spawnStage(dungeonId, diffKey, stageIdx){
     if(phases){ el=phases[0].el; beh=phases[0].beh; full=true; }                          // 魔王變身:完整版
     else if(d.beh){ beh=d.beh; full=(d.full===true); }                                    // 🔧OVERRIDE 直接指定行為→繞過嬰兒/初級 noSkill(特例手調用):初級也能掛畜力技等
     else if(A){ full=covered(d); beh=full?A.beh:null; }                                   // 兵種行為:covered(上級魔王/地獄)才開
-    else if(myBeh && !noSkill){                                                           // 屬城招:中級起開(嬰兒/初級無)
+    else if(myBeh && !noSkill && !d.peck){                                               // 屬城招:中級起開(嬰兒/初級無);⚠d.peck>0(🦆賊鴨系關卡)排除在外,避免自動注入的屬城招(風=eatStored)蓋過賊鴨自己的 peck 派工(endHand 判斷順序 eatStored 排在 peck 前面,兩者都非0會讓 _eatAct 搶走本該給 _peckAct 的手,連帶 interval 算式也會被 eatStored 分支劫走)
       if(d.boss){ beh=myBeh; full=true; }                                                 // 魔王 = 完整版
       else if(covered(d)){ beh=myBeh; full=true; }                                        // 地獄雜兵 = 完整
       else if(!stageHasBoss && idx===specialIdx){ beh=myBeh; full=false; }    // 小關:指定位置的雜兵帶輕鬆版(S1右/S2中)
@@ -195,8 +233,11 @@ function spawnStage(dungeonId, diffKey, stageIdx){
     const g=behGates(beh, dk, full);
     if(d.finPct!=null) g.finisher=d.finPct;   // 🔧OVERRIDE 直接指定終結傷害佔 maxHP 比例(初級低傷教學用,蓋掉 behGates 的 0.4/0.6)
     if(g.shield){ const kind=(stageIdx===0)?'combo':'hit'; if(kind==='combo'){g.comboGate=2;g.hitGate=0;}else{g.hitGate=15;g.comboGate=0;} g.shieldKind=kind; }   // 🛡盾型:S1(stageIdx0)=連段2、S2/魔王=HIT15
-    const ival=(d.finCD>0)?d.finCD:((g.healAlly>0||(g.eatStored>0&&d.boss)||(g.paralyze>0&&d.boss))?1:turns);   // 🔥finCD=CD式畜力技的總CD(蓋過 turns);💚補師 CD=1;🌀消塊魔王 CD=1;⚡麻痺魔王 CD=1;術士 CD=turns(=2)
-    return {el,max:hp,hp:hp,atk:atk,interval:ival,timer:Math.max(2,ival),burn:0,dead:false,boss:!!d.boss,guard:(!d.boss&&stageHasBoss),...g,phases,phaseIdx:0,arch:d.arch||null,tier:d.tier||0,finStages:d.finStages||0,finAnyHit:!!d.finAnyHit,finCD:d.finCD||0};   // 每關初始 timer≥2;tier=哥布林星級貼圖;finStages=蓄力段數;finAnyHit=任何屬性打到即中止;finCD>0=CD式畜力(倒數最後finStages格顯示蓄力球、歸0放招)
+    // 🔥火城畜力技統一 CD式(CD4、倒數CD3/2/1顯示蓄力):中級雜兵(S1右/S2中)+魔王都套;地獄雜兵(full 非魔王)維持原樣。雜兵給2星哥布林貼圖,魔王維持自身貼圖(中級↑=4星酋長、初級=3星戰士)。||=OVERRIDE 明確值優先
+    let tierV=d.tier||0, finCDV=d.finCD||0, finStagesV=d.finStages||0;
+    if(dEl==='fire' && g.finisher>0 && !phases && (!full || d.boss)){ finCDV=finCDV||4; finStagesV=finStagesV||3; if(!d.boss) tierV=tierV||2; }
+    const ival=(finCDV>0)?finCDV:((g.healAlly>0||(g.eatStored>0&&d.boss)||(g.paralyze>0&&d.boss))?1:turns);   // 🔥finCD=CD式畜力技的總CD(蓋過 turns);💚補師 CD=1;🌀消塊魔王 CD=1;⚡麻痺魔王 CD=1;術士 CD=turns(=2)
+    return {el,max:hp,hp:hp,atk:atk,interval:ival,timer:Math.max(2,ival),burn:0,dead:false,boss:!!d.boss,guard:(!d.boss&&stageHasBoss),...g,phases,phaseIdx:0,arch:d.arch||null,tier:tierV,finStages:finStagesV,finAnyHit:!!d.finAnyHit,finCD:finCDV,peck:d.peck||0,peckTray:!!d.peckTray,stealStored:!!d.stealStored};   // 每關初始 timer≥2;tier=星級貼圖;finStages=蓄力段數;finAnyHit=任何屬性打到即中止;finCD>0=CD式畜力;peck>0=🦆賊鴨每次攻擊偷走n個盤面格(沒格→攻擊翻倍);peckTray=連拖盤拼圖格也偷;stealStored=額外輪流吃卡上屬塊(魔女魔王消屬塊機制)
   });
 }
 
